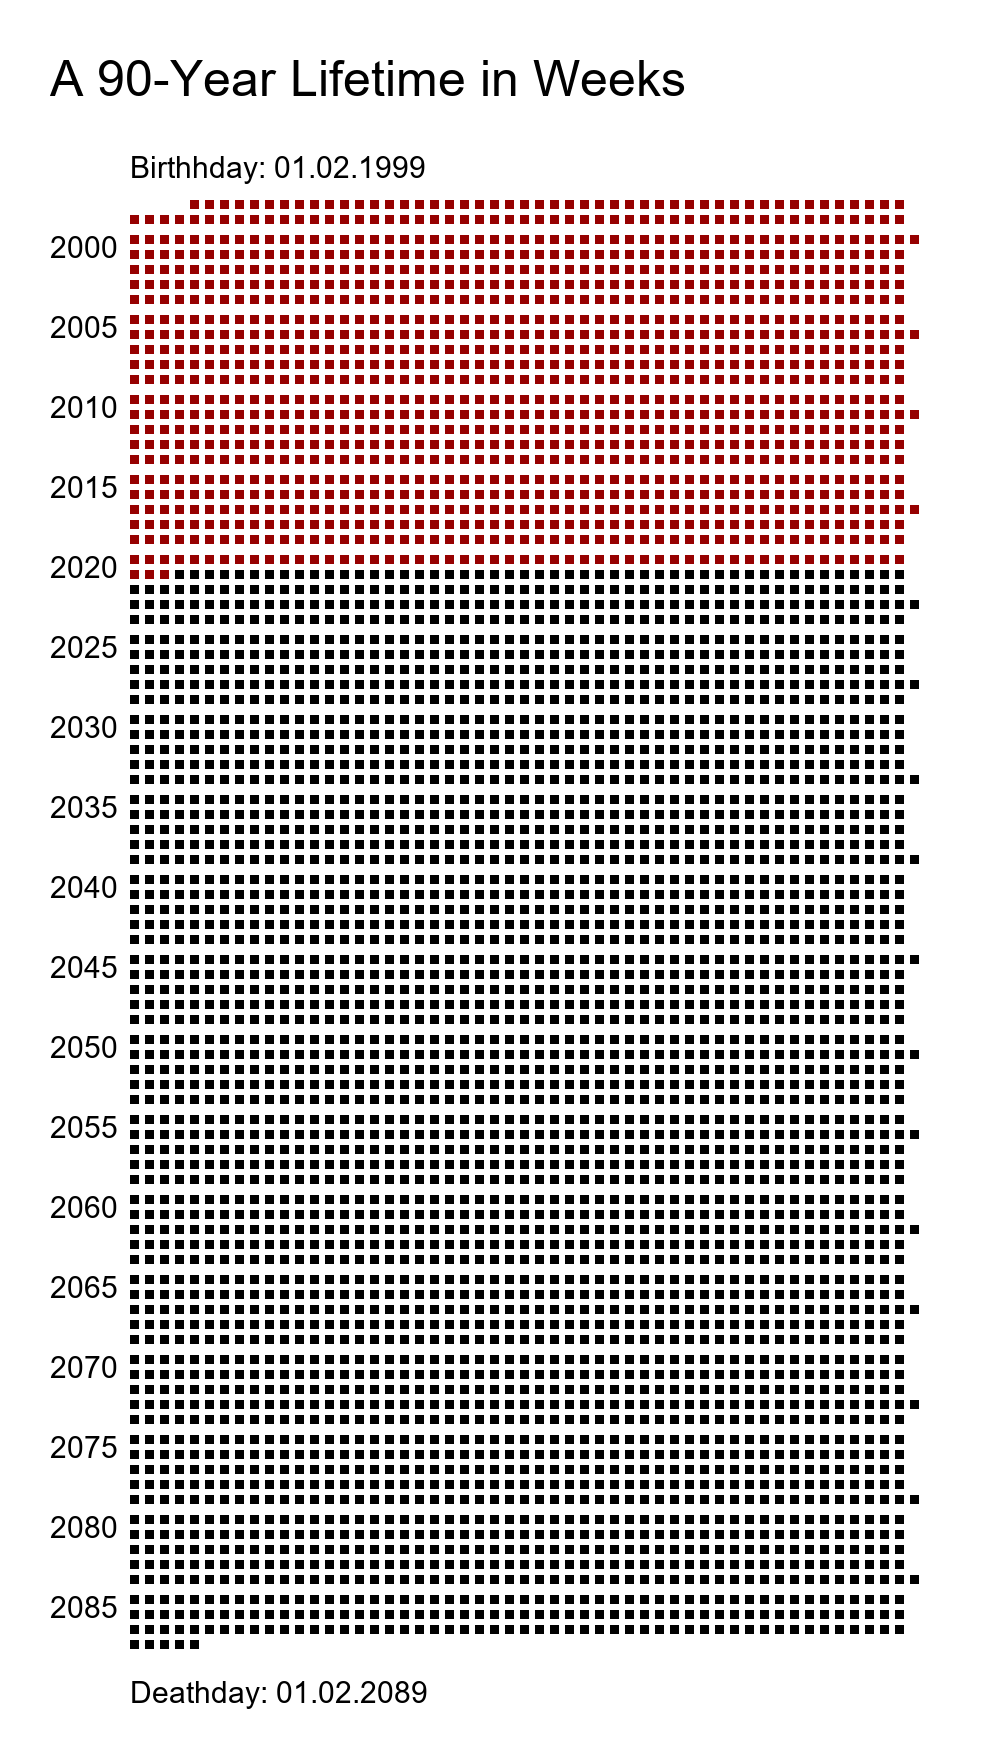
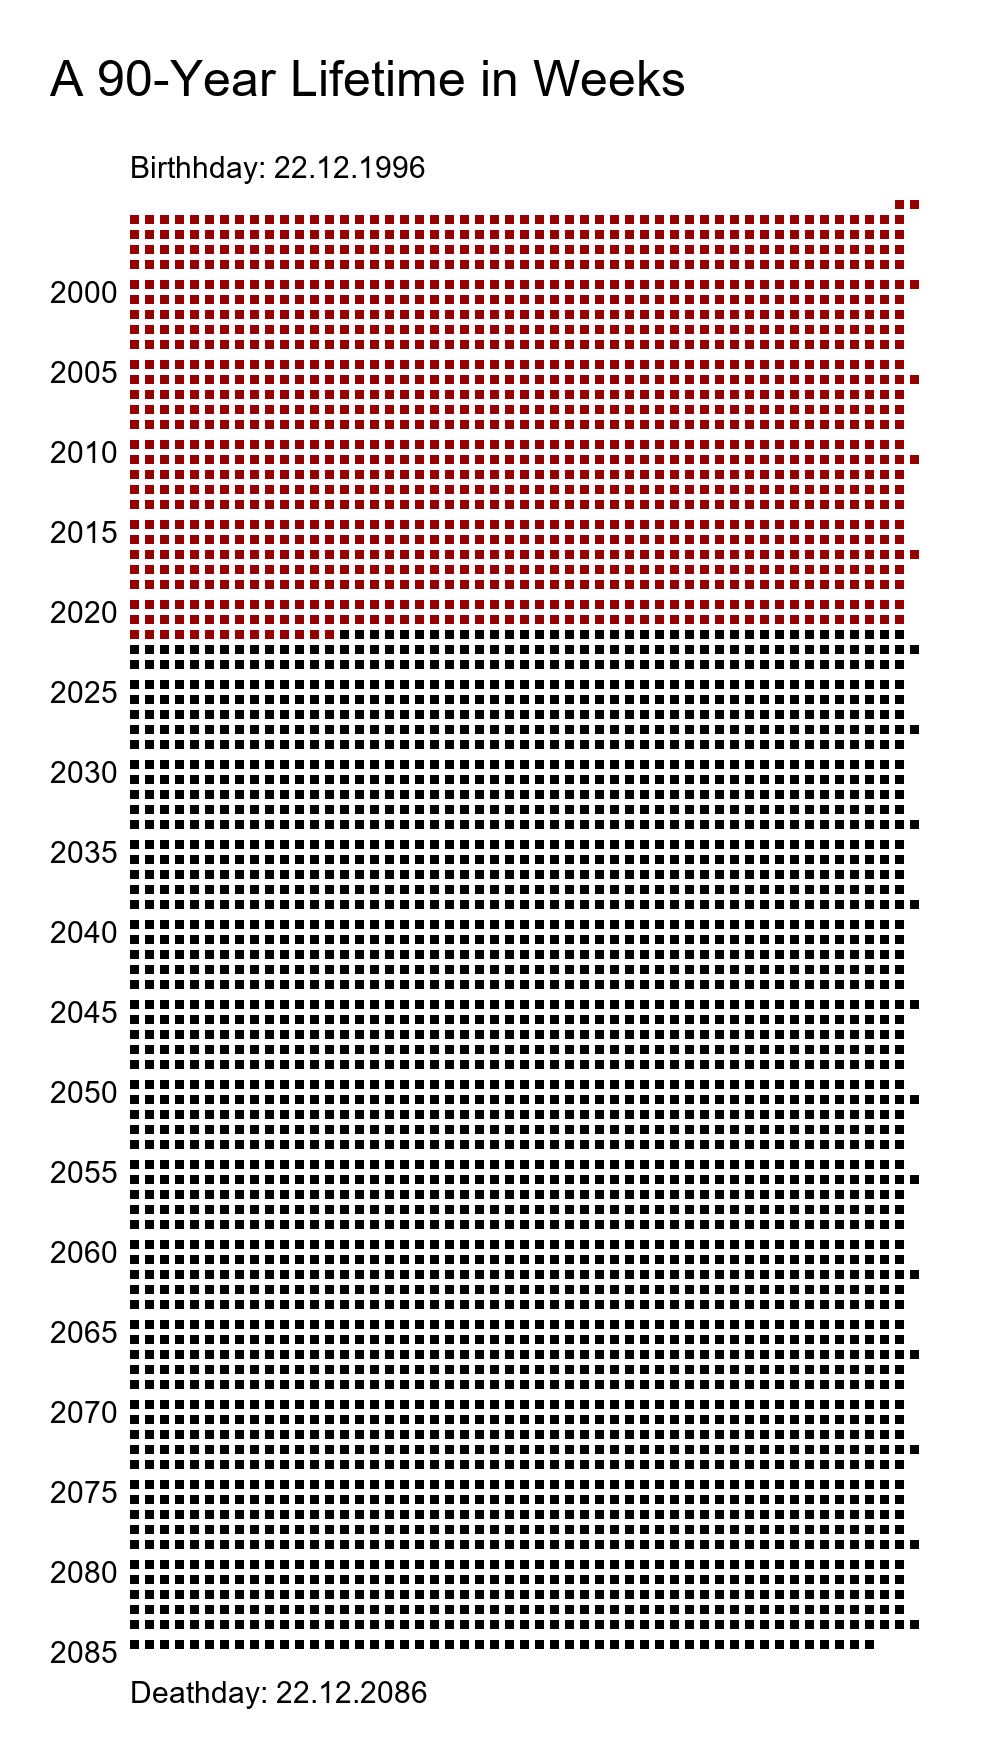
correct spelling mistake

Changed region(s): [[0.031, 0.0923, 0.93, 0.9841]]

diff --git a/lifetime.py b/lifetime.py
@@ -29,7 +29,7 @@ draw = ImageDraw.Draw(img)
 draw.text((50, 50), f"A {lifetime}-Year Lifetime in Weeks", font=bigfont, fill="black")
 draw.text(
     (130, 150),
-    f'Birthhday: {birthday.strftime("%d.%m.%Y")}',
+    f'Birthday: {birthday.strftime("%d.%m.%Y")}',
     font=font,
     fill="black",
 )
